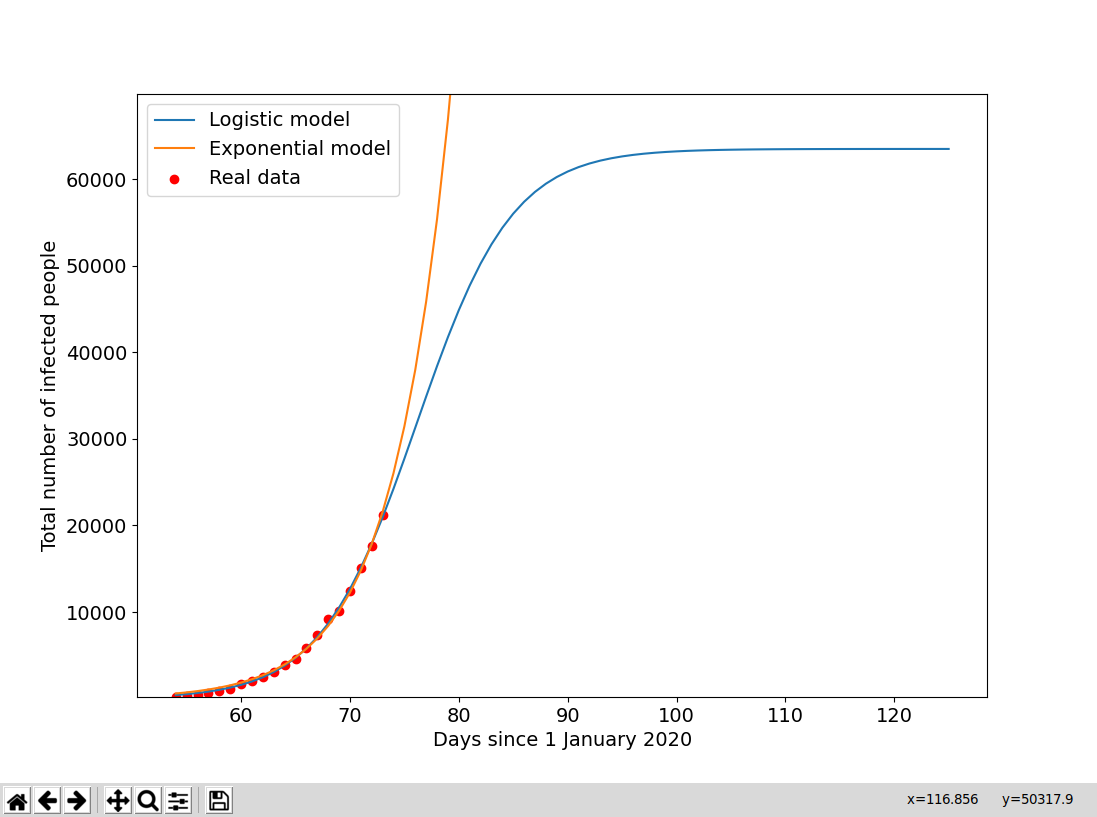
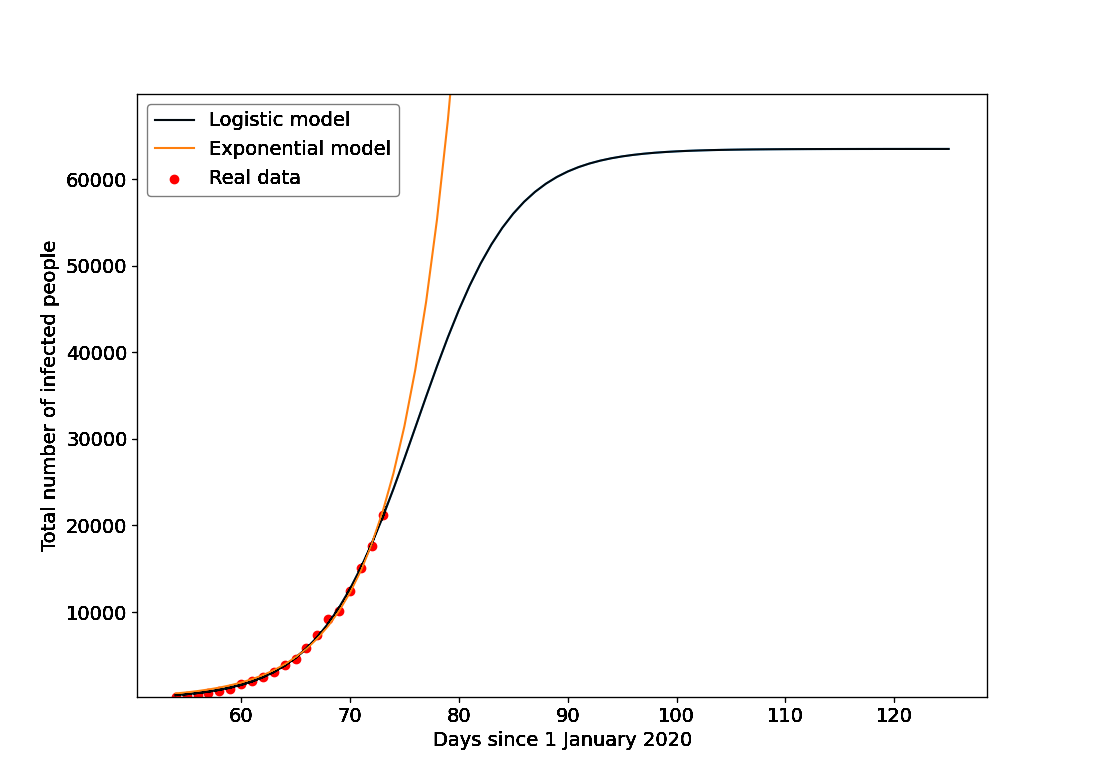
fix typo

diff --git a/_posts/2020-03-15-forecast-coronavirus-italy.md b/_posts/2020-03-15-forecast-coronavirus-italy.md
@@ -8,10 +8,10 @@ This post is an updated version of this [article](https://towardsdatascience.com
 
 **Data updated at: 14 March 2020**
 
-Accordingly to the logistic model, the predictions are the following:
+According to the logistic model, the predictions are the following:
 - End of infection: 6 May 2020
 - Total cases at the end of infection: 63493 (min: 53689, max: 73297)
 
 This image shows the real data compared to the logistic and exponential model.
 
-![scraped](img/plot2.png)
+![scraped](img/plot.png)
